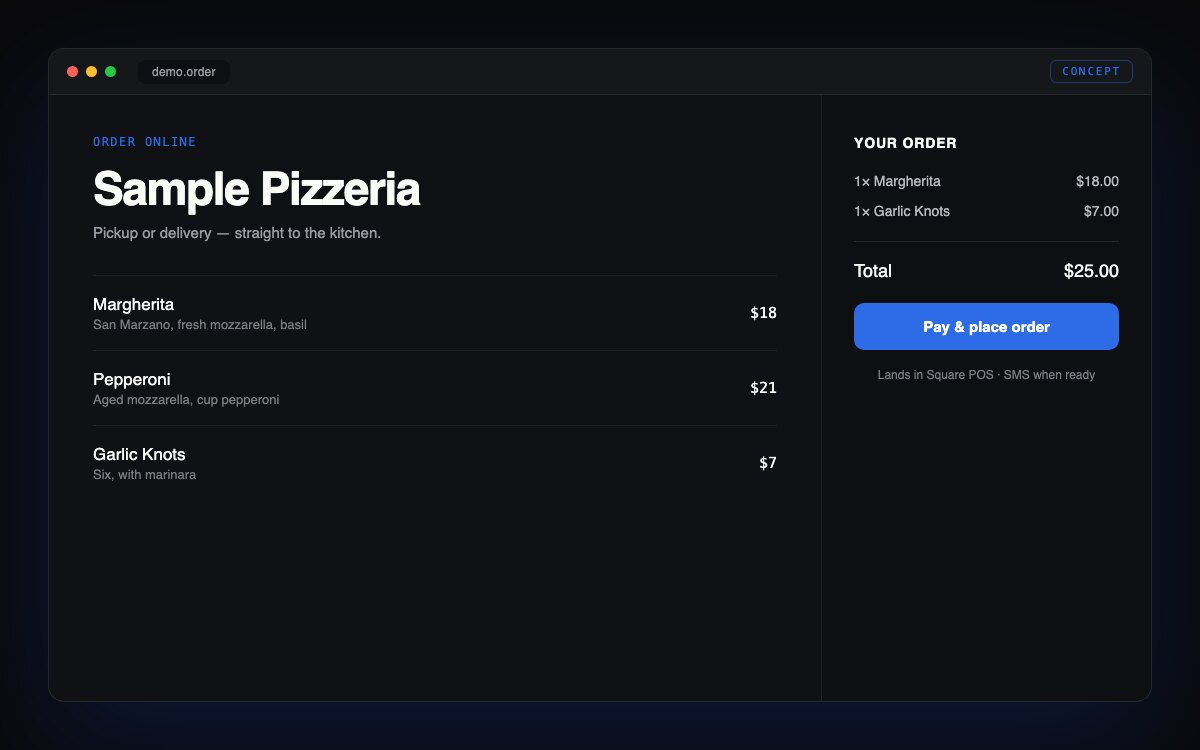
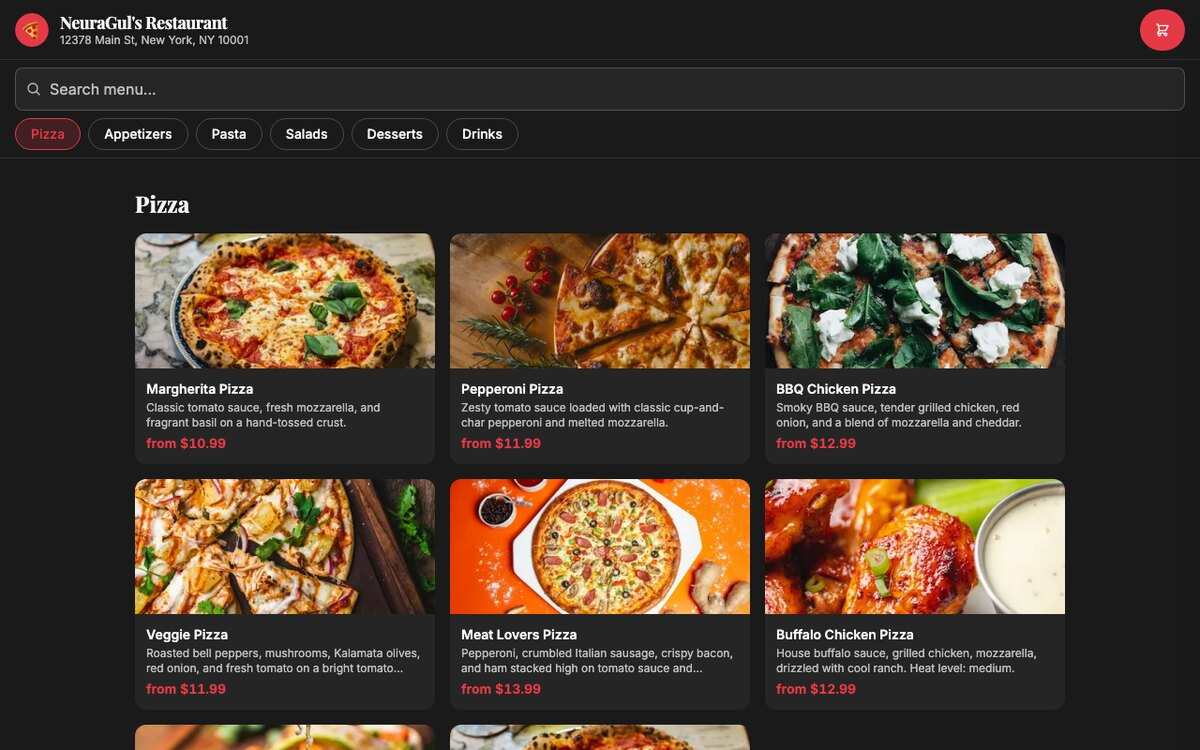
pizzaria change

diff --git a/index.html b/index.html
@@ -230,11 +230,11 @@
 							<p class="nrg-work__desc">The e-commerce platform for a leading wine import company — inventory management, order processing, and customer relationship tools.</p>
 						</div>
 					</a>
-					<article class="nrg-work__item" data-reveal>
+					<a class="nrg-work__item" href="https://pizzeria-software.vercel.app" target="_blank" rel="noopener" data-reveal>
 						<div class="nrg-work__img">
 							<picture>
 								<source srcset="assets/img/portfolio/pizzeria.webp" type="image/webp">
-								<img src="assets/img/portfolio/pizzeria.jpg" alt="Restaurant ordering portal — online menu and checkout mock" width="1200" height="750" loading="lazy" decoding="async">
+								<img src="assets/img/portfolio/pizzeria.jpg" alt="Restaurant ordering portal — online menu and checkout" width="1200" height="750" loading="lazy" decoding="async">
 							</picture>
 						</div>
 						<div class="nrg-work__meta">
@@ -242,7 +242,7 @@
 							<h3 class="nrg-work__name">Restaurant ordering portal</h3>
 							<p class="nrg-work__desc">Commission-free online ordering that plugs into a restaurant's existing Square POS — orders, payments, and SMS updates, with no third-party fees.</p>
 						</div>
-					</article>
+					</a>
 					<a class="nrg-work__item" href="https://view.officeapps.live.com/op/view.aspx?src=https%3A%2F%2Fneuragul.com%2Fassets%2Fdocs%2Frwd-pipeline-portfolio.pptx" target="_blank" rel="noopener" data-reveal>
 						<div class="nrg-work__img">
 							<picture>